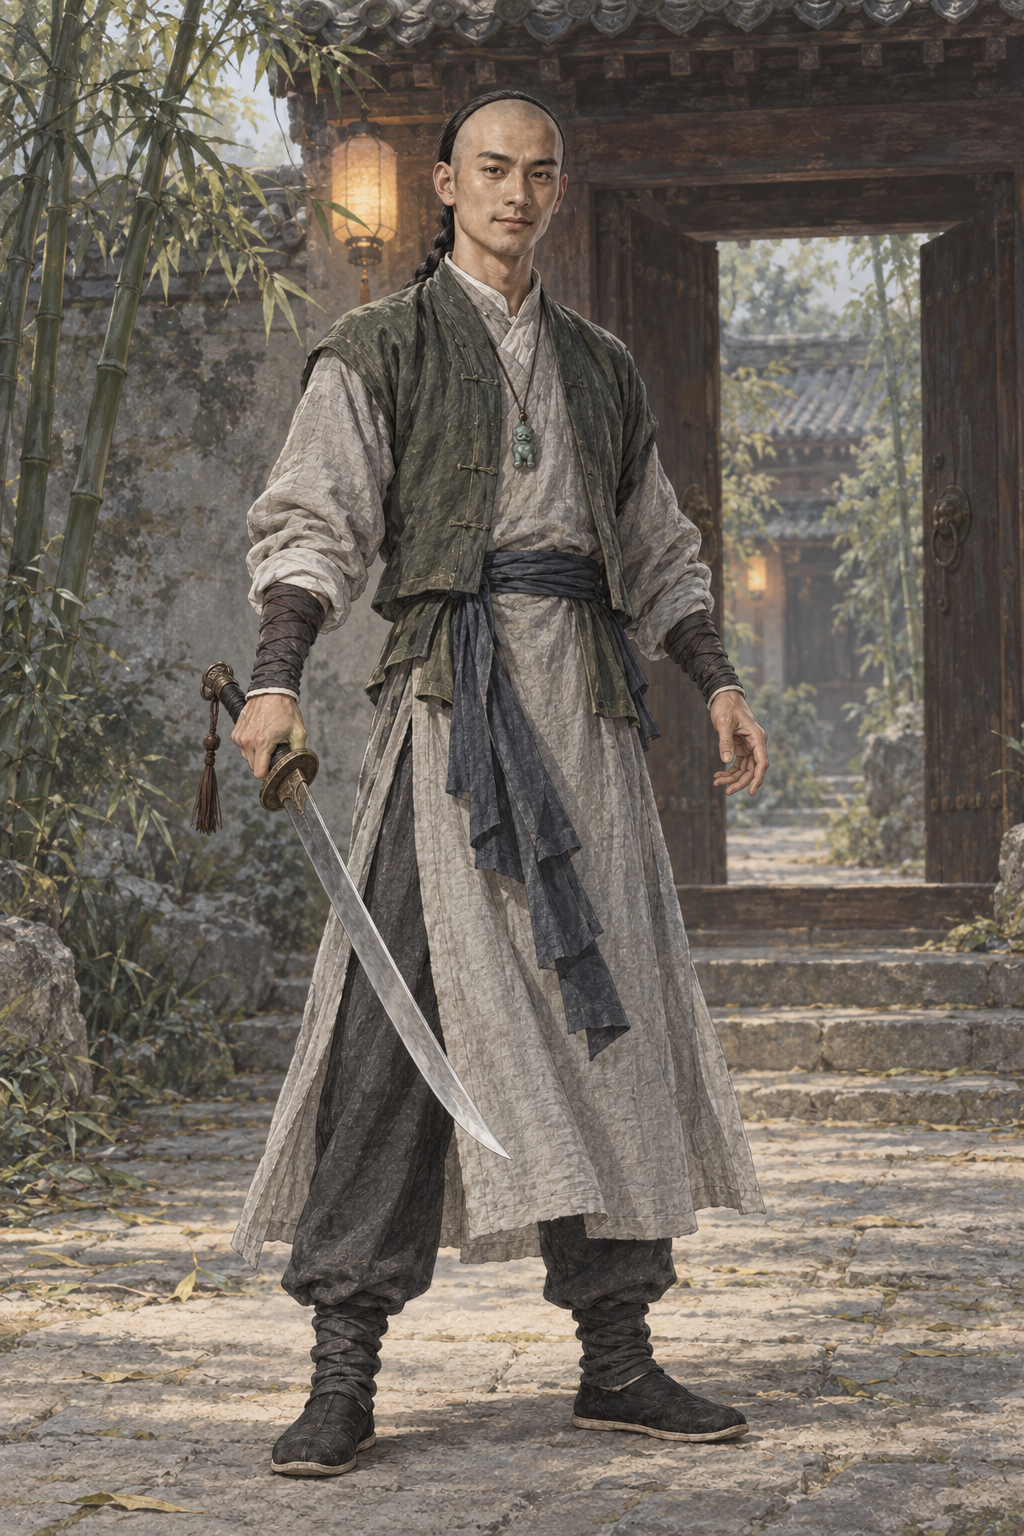
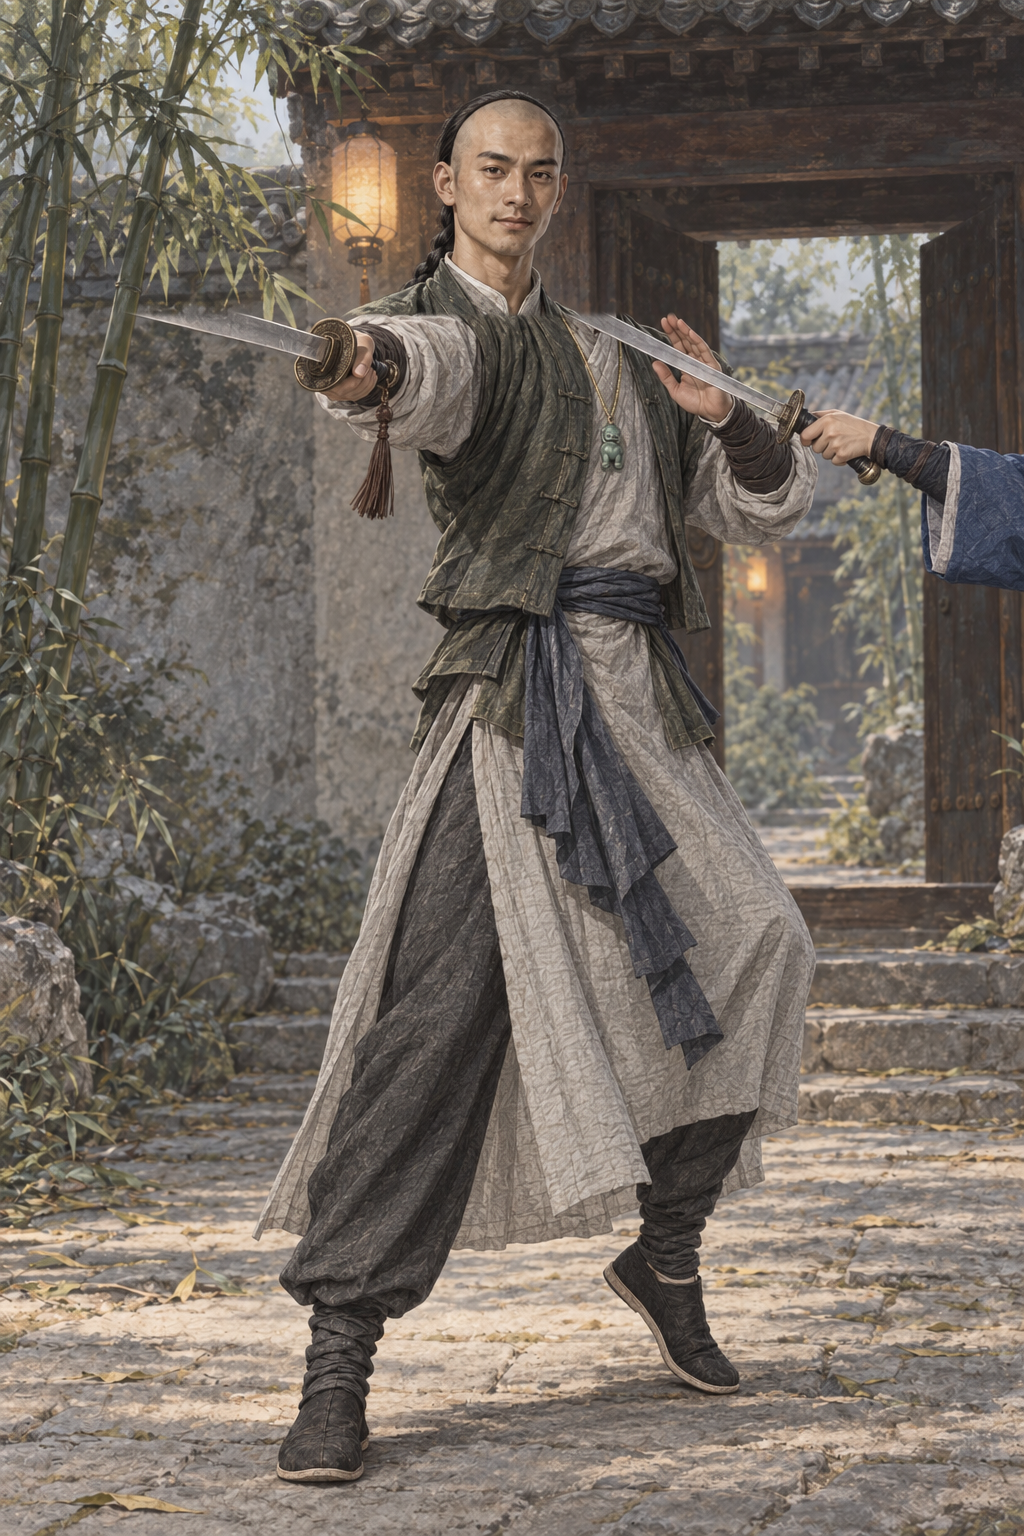
assets: AR-82 原著核对返修 袁冠南
修正原著明确的服饰、器物或剧情状态；编辑范围外像素保持，保留既定面容；同步原著摘句及当前返修要求。

Executed-By: Codex gpt-6.1-sol（AR-82）

diff --git a/assets/default/prompts/characters/ch11-yuanyang/npc_yuanguannan__scene_zizhu_first_twelve.md b/assets/default/prompts/characters/ch11-yuanyang/npc_yuanguannan__scene_zizhu_first_twelve.md
@@ -51,3 +51,16 @@ size: 1024x1536
 
 - 参考分工见实际提示词；配色、姿势、取景及成年化均为（原创扩展）。
 - 本轮结果已逐图目检并入库为 candidate；实际作业与参考哈希见 manifest。
+
+
+## 原著依据
+
+- AR-82 返修依据：《鸳鸯刀》转载第七节：“袁萧二人双刀齐飞”；“夫妻刀法的十二招”。；来源：https://www.kanunu8.com/book6/yuanyangdao/50469.html；执行：紫竹庵袁持长刀进攻，萧在身侧以短刀护袁肩头，双刀交错互护；袁左腿伤后承重谨慎，右腿支撑。避免静止持刀展示。
+- AR-82 返修依据：《鸳鸯刀》转载第八节：“细金链上的翡翠狮子”。；来源：https://www.kanunu8.com/book6/yuanyangdao/50470.html；执行：将翡翠小狮子以细金链挂在颈下，胸前可辨；保留小狮子的大小，去掉腰侧布绳挂法。
+
+
+## AR-82 当前返修约束
+
+袁冠南紫竹庵夫妻刀法初练十二招：袁本人右手长刀向画面左侧进攻，左腿（画面右腿）受伤卸力，身体重心支右腿，明显慎重承重而非双腿平稳静立。画面右边缘加入萧中慧局部蓝袖手臂和她的短刀，短刀护住袁肩头，袁长刀与萧短刀交错互护；萧脸与完整身体不入画。原颈下翡翠小狮子大小与位置保持，只把深色布绳换成细金链。袁头部位置大小角度、五官、原配色服装和庵门竹林保持；不能继续垂刀展示。
+
+以本节及原著依据为当前要求，历史提示词与本节冲突时按本节执行；保留作者选定脸、原画质感与对应剧情阶段。
